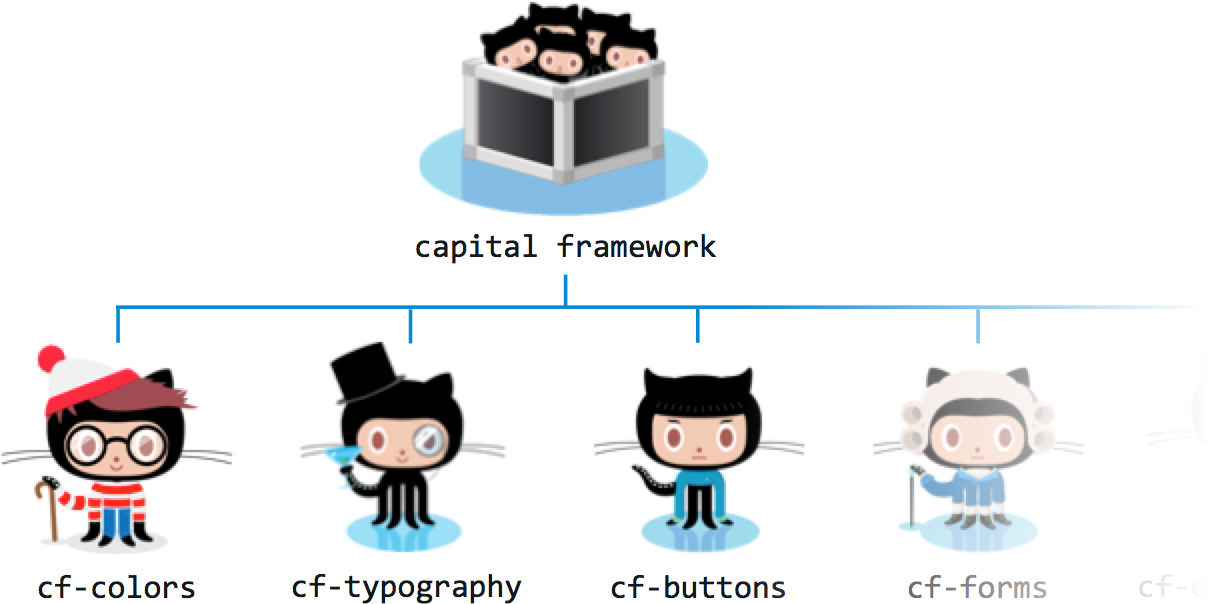
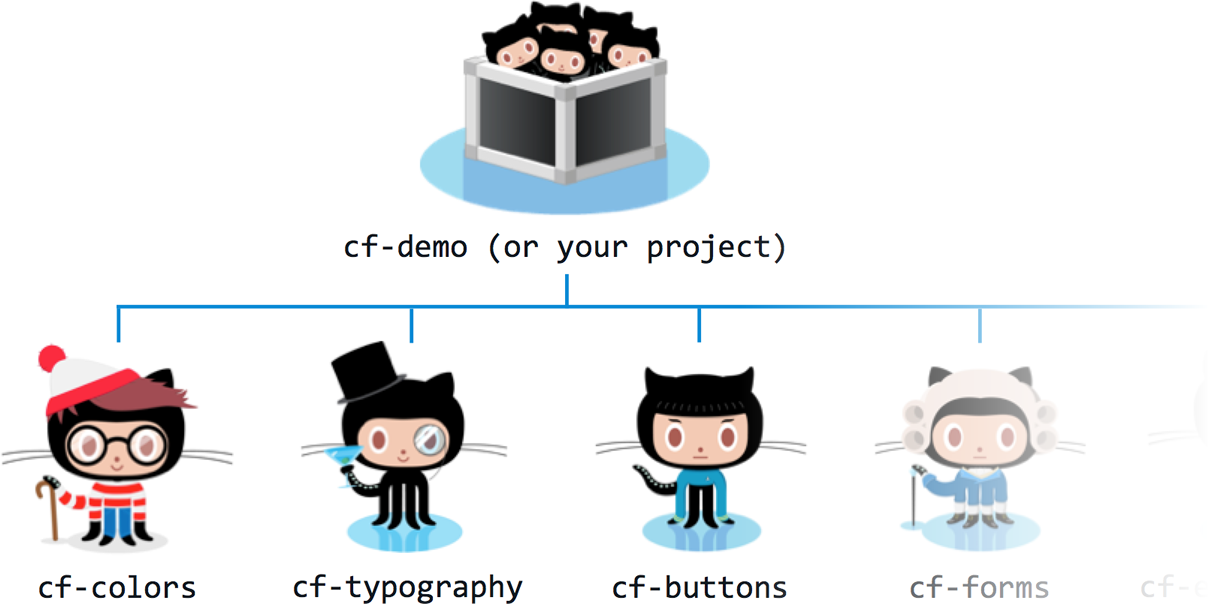
Updates overview img and adds it to the homepage.

diff --git a/index.md b/index.md
@@ -27,6 +27,8 @@ Capital Framework is a set of front-end components developed at the
 {% include workflow-intro.md %}
 
 
+![cf-demo in relation to components]({{ site.baseurl }}/assets/img/cf-overview.png)
+
 ## Get the code
 
 {% include components-repositories.md %}
